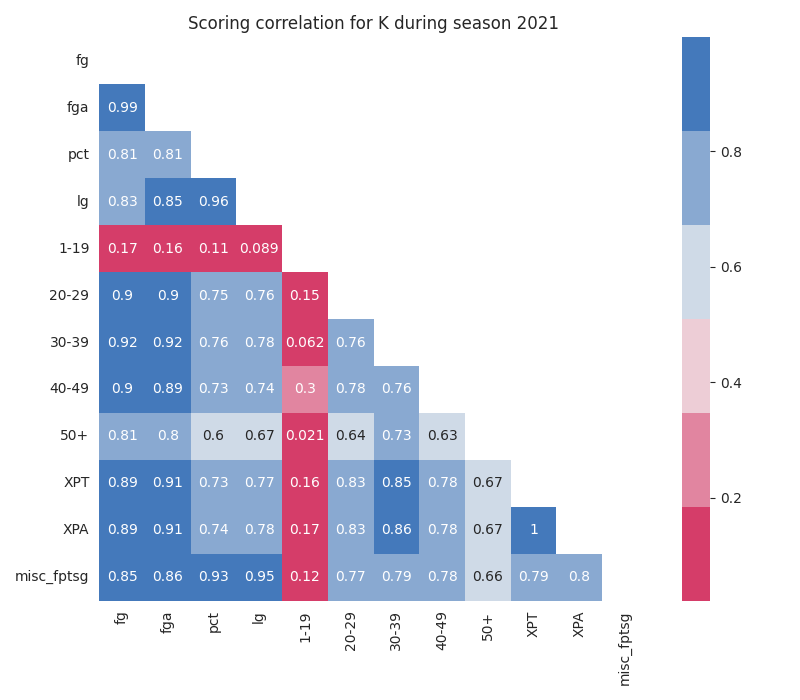
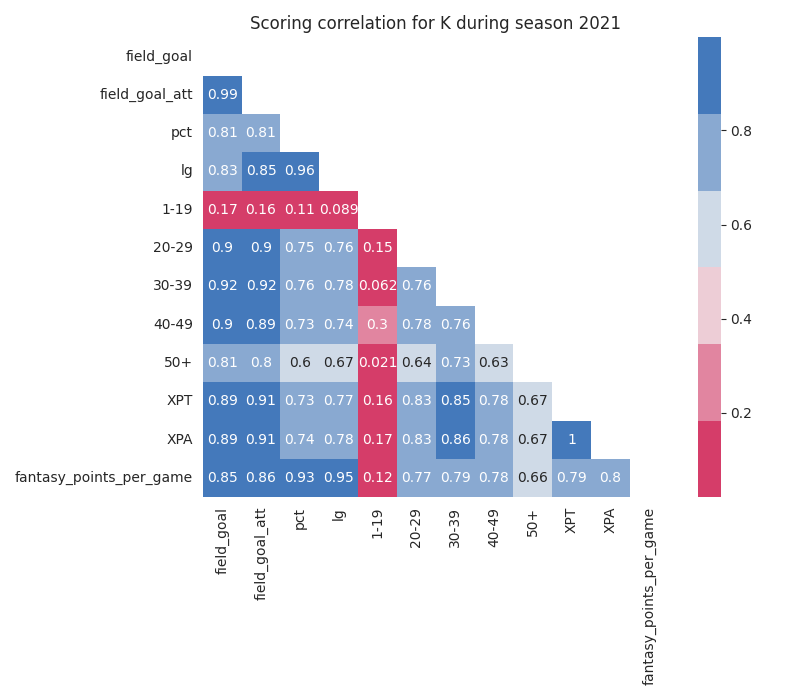
Update to new column names and data storage structure.

diff --git a/tools/td_regression_candidates.py b/tools/td_regression_candidates.py
@@ -16,7 +16,7 @@ sns.set_style("whitegrid")
 
 PREPROCESSED_BASIS = True
 PREPROCESSED_EST = True
-PREPROCESSED_ACTUAL = True
+PREPROCESSED_ACTUAL = False
 
 PLAY = "rec"  # rush, pass, rec
 POSITION = "RB"  # QB, RB, TE, WR
@@ -64,10 +64,10 @@ if __name__ == "__main__":
         df_prob = df_prob.drop("touchdown", axis=1)
 
         # save preprocessed probability data
-        df_prob.to_csv(f"../preprocessed/preprocessed_probability_{PLAY}.csv", index=False)
+        df_prob.to_csv(f"../preprocessed/td_regression/preprocessed_probability_{PLAY}.csv", index=False)
     else:
         # load preprocessed probability data
-        df_prob = pd.read_csv(f"../preprocessed/preprocessed_probability_{PLAY}.csv")
+        df_prob = pd.read_csv(f"../preprocessed/td_regression/preprocessed_probability_{PLAY}.csv")
 
     # plot probability of scoring a touchdown
     df_prob.plot(x="yardline_100", y="probability_of_touchdown", title=f"Probability for {PLAY}ing TD")
@@ -95,10 +95,10 @@ if __name__ == "__main__":
         df_train = df_train.rename(columns={df_train.columns[0]: "player", "posteam": "team"})
 
         # save preprocessed training data
-        df_train.to_csv(f"../preprocessed/preprocessed_training_{PLAY}.csv", index=False)
+        df_train.to_csv(f"../preprocessed/td_regression/preprocessed_training_{PLAY}.csv", index=False)
     else:
         # load preprocessed training data
-        df_train = pd.read_csv(f"../preprocessed/preprocessed_training_{PLAY}.csv")
+        df_train = pd.read_csv(f"../preprocessed/td_regression/preprocessed_training_{PLAY}.csv")
 
     # join probability with training
     data = df_train.merge(df_prob, how="left", on="yardline_100")
@@ -113,7 +113,7 @@ if __name__ == "__main__":
 
     if not PREPROCESSED_ACTUAL:
         # load final stats
-        chunks = pd.read_csv(f"../data/yearly/{POSITION}/{POSITION}_2019.csv", iterator=True, low_memory=False,
+        chunks = pd.read_csv(f"../data/yearly_stats/{POSITION}/{POSITION}_2019.csv", iterator=True, low_memory=False,
                              chunksize=10000)
         df = pd.DataFrame()
         for chunk in chunks:
@@ -121,15 +121,7 @@ if __name__ == "__main__":
         df = df.dropna()
 
         # clean stats for defined position
-        df_actual = pd.DataFrame()
-        if POSITION == "QB":
-            df_actual = fp.clean_stats_qb(df)
-        elif POSITION == "RB":
-            df_actual = fp.clean_stats_rb(df)
-        elif POSITION == "TE":
-            df_actual = fp.clean_stats_te(df)
-        elif POSITION == "WR":
-            df_actual = fp.clean_stats_wr(df)
+        df_actual = fp.clean_stats(df, POSITION)
 
         # get player, team and td
         if PLAY == "pass":
@@ -146,9 +138,9 @@ if __name__ == "__main__":
         df_actual["player"] = df_actual["player"].apply(fix_player_names)
 
         # save preprocessed player data
-        df_actual.to_csv(f"../preprocessed/preprocessed_actual_{PLAY}_{POSITION}.csv", index=False)
+        df_actual.to_csv(f"../preprocessed/td_regression/preprocessed_actual_{PLAY}_{POSITION}.csv", index=False)
     else:
-        df_actual = pd.read_csv(f"../preprocessed/preprocessed_actual_{PLAY}_{POSITION}.csv")
+        df_actual = pd.read_csv(f"../preprocessed/td_regression/preprocessed_actual_{PLAY}_{POSITION}.csv")
 
     # merge data and drop position
     data = df_actual.merge(data, how="left", on=["player", "team"]).dropna()

diff --git a/tools/scoring_correlation.py b/tools/scoring_correlation.py
@@ -22,23 +22,10 @@ if __name__ == "__main__":
     df = df.dropna()
 
     # clean data
-    if POSITION == "QB":
-        df = fp.clean_stats_qb(df)
-    elif POSITION == "RB":
-        df = fp.clean_stats_rb(df)
-    elif POSITION == "TE":
-        df = fp.clean_stats_te(df)
-    elif POSITION == "WR":
-        df = fp.clean_stats_wr(df)
-    elif POSITION == "DST":
-        df = fp.clean_stats_def(df)
-    elif POSITION == "K":
-        df = fp.clean_stats_k(df)
-    else:
-        sys.exit("Position not implemented.")
+    df = fp.clean_stats(df, POSITION)
 
     # drop unnecessary columns
-    df.drop(["rank", "player", "team", "misc_g", "misc_fpts", "misc_rost"], axis=1, inplace=True)
+    df.drop(["rank", "player", "team", "games", "fantasy_points", "rost"], axis=1, inplace=True)
 
     # plot the correlation heatmap
     plt.figure(figsize=(8, 7))

diff --git a/tools/qb_rating.py b/tools/qb_rating.py
@@ -55,14 +55,14 @@ if __name__ == "__main__":
 
     # use only QB that have played number of games
     games_threshold = 10
-    yearly = yearly.loc[(yearly["misc_g"] > games_threshold), :]
+    yearly = yearly.loc[(yearly["games"] > games_threshold), :]
 
     # get the rank of the rating
     yearly["rating_rank"] = yearly["rating"].rank(ascending=False)
     yearly = yearly.astype({"rating_rank": int})
 
     # plot the rating vs fantasy points
-    yearly.rename(columns={"misc_fpts": "fantasy points"}, inplace=True)
+    yearly.rename(columns={"fantasy_points": "fantasy points"}, inplace=True)
     plt.figure()
     plt.title("QB rating vs. fantasy points scored in {}".format(YEAR))
     sns.scatterplot(x="rating", y="fantasy points", data=yearly)
